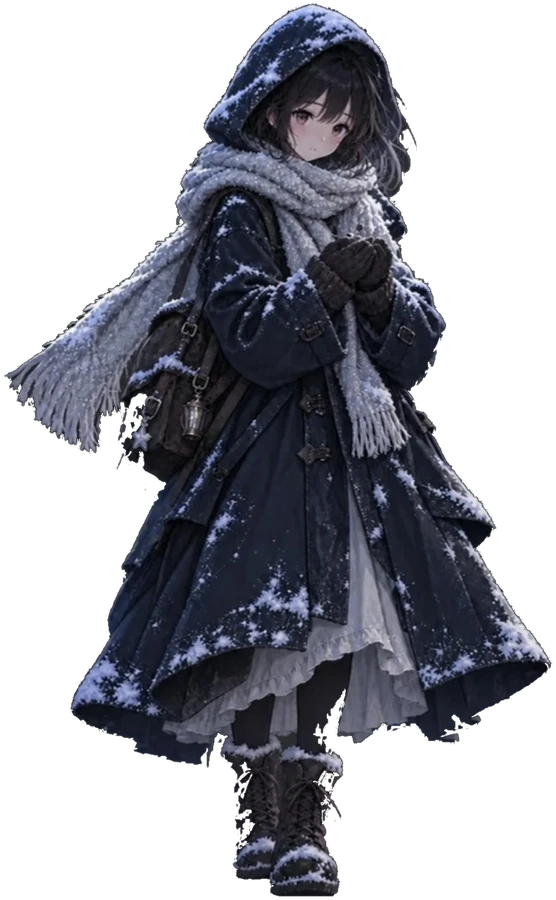
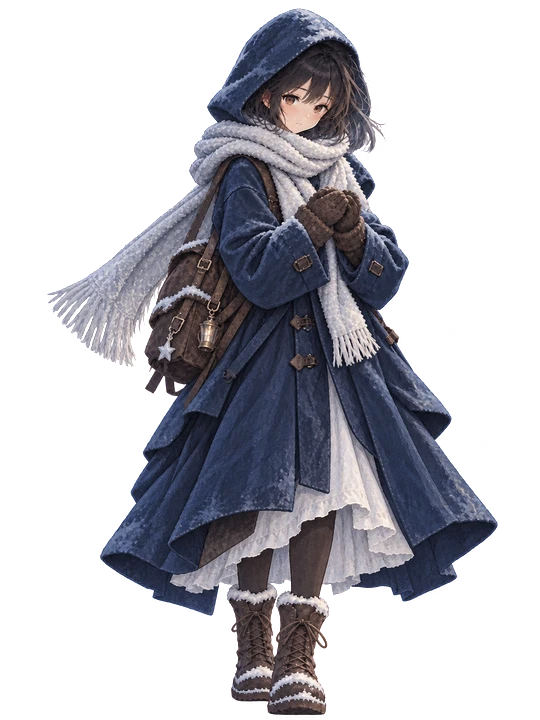
feat(kienaide): finish neutral hero and dawn lighting

diff --git a/assets/kienaide-view.js b/assets/kienaide-view.js
@@ -180,10 +180,10 @@ function create(base){
  }
  // Everything the flame lights on her and on the snow, added after the darkness. Zero when out.
  function drawFirelight(ctx,st){
-  if(!(st.light>0))return;const b=heroBox(),a=flameAnchor();
+  if(!(st.light>0))return;const b=heroBox(),a=st.at||flameAnchor();
   ctx.save();ctx.globalCompositeOperation='lighter';
   const g=ctx.createRadialGradient(a.x,H-10,4,a.x,H-10,90+st.light*80);g.addColorStop(0,'rgba(255,184,104,'+(.3*st.light)+')');g.addColorStop(1,'rgba(255,170,90,0)');ctx.fillStyle=g;ctx.fillRect(0,H-170,view.W,170);
-  const rim=tinted('hero-rim','#ffbf78');if(rim){ctx.globalAlpha=Math.min(1,st.light*1.1);ctx.drawImage(rim,b.x,b.y+(st.bob||0),b.w,b.h)}
+  const rim=tinted('hero-rim','#ffbf78');if(rim){ctx.globalAlpha=Math.min(.62,st.light*.68);ctx.drawImage(rim,b.x,b.y+(st.bob||0),b.w,b.h)}
   ctx.restore();
  }
  // Hands: the same painted mittens, raised and closed around the flame while shielding.
@@ -202,7 +202,7 @@ function create(base){
    if(st.smoke>0){ctx.save();ctx.strokeStyle='rgba(190,198,214,'+(.5*st.smoke)+')';ctx.lineWidth=2;ctx.beginPath();ctx.moveTo(a.x,y0);for(let i=1;i<8;i++)ctx.lineTo(a.x+Math.sin(st.t*2+i)*4*i*.4,y0-i*7);ctx.stroke();ctx.restore()}
    return;
   }
-  const e=st.expression||'calm',light=Math.min(1,health/100)*(st.hope?1.2:1),sprite=ready('flame-'+e)?imgs['flame-'+e]:imgs.flame;
+  const e=st.expression||'calm',exposure=st.exposure??1,light=Math.min(1,health/100)*(st.hope?1.2:1)*exposure,sprite=ready('flame-'+e)?imgs['flame-'+e]:imgs.flame;
   const size=(16+32*Math.pow(health/100,.7))*(st.scale||1),lean=st.reduced?0:Math.max(-1,Math.min(1,(st.wind||0)*(st.shield?.15:.9)))*.32;
   const tremble=st.reduced?0:(e==='afraid'?Math.sin(st.t*31)*1.2:e==='suffocating'?Math.sin(st.t*9)*.8:0);
   const breathe=st.reduced?1:1+Math.sin(st.t*(e==='comfort'?2.2:4.2))*.035;
@@ -215,7 +215,7 @@ function create(base){
   if(sprite&&sprite.complete&&sprite.naturalWidth>0){
    const w=size*1.15*breathe,h=size*1.25*(e==='afraid'?.9:1)*breathe;
    ctx.save();ctx.translate(a.x+tremble,y0);ctx.rotate(lean+(st.lookAt?.08:0));
-   ctx.globalAlpha=e==='suffocating'?.72:1;
+   ctx.globalAlpha=(e==='suffocating'?.72:1)*Math.min(1,.72+.28*exposure);
     ctx.drawImage(sprite,-w/2,-h*.92,w,h);ctx.restore();
   }else{
    const g=ctx.createRadialGradient(a.x,y0-size*.5,1,a.x,y0-size*.5,size*.6);g.addColorStop(0,'#fff3c4');g.addColorStop(1,'rgba(245,140,70,0)');ctx.fillStyle=g;ctx.fillRect(a.x-size,y0-size*1.4,size*2,size*1.6);
@@ -326,8 +326,13 @@ function create(base){
   if(!drawPlate(ctx,ci,cam,1,lightAlpha,['sky','far','mid']))fallbackSky(ctx,ci);
   snow(ctx,te,ending==='blown'?.9:ending==='smother'?.15:.05,reduced,1,'back');
   const flame=ending==='dawn'?92:ending==='survive'?24+Math.sin(te*6)*4:ending==='smother'?Math.max(0,30*(1-te/1.6)):0;
+  const endingExposure=ending==='dawn'?.34:1,flameAt=ending==='dawn'?{x:a.x+8,y:a.y+26}:a;
+  // The responding window belongs behind the traveller. Painting this additive glow after her
+  // washed out the face and made the ending feel like a generated bloom effect.
+  let dawnWindow=null;
+  if(ending==='dawn'){dawnGrade(ctx,.6+.4*k);dawnWindow=windowGlow(ctx,cam,.7+k*.5)}
   const bob=drawTraveller(ctx,{t:te,ci,pose:'end-'+ending,shield:false,wind:ending==='blown'?.9:.1,reduced,light:flame/100,walking:false});
-  if(ending==='dawn'){dawnGrade(ctx,.6+.4*k);const w=windowGlow(ctx,cam,.7+k*.5);beam(ctx,w,a,k);vignette(ctx,1,a)}
+  if(ending==='dawn'){beam(ctx,dawnWindow,flameAt,k);vignette(ctx,1,flameAt)}
   else if(ending==='survive'){dawnGrade(ctx,.45*k);windowGlow(ctx,cam,.25+.12*Math.sin(te*2));vignette(ctx,.45,a)}
   else if(ending==='wish'){windowGlow(ctx,cam,.25);vignette(ctx,.25,a)}
   else{
@@ -336,8 +341,8 @@ function create(base){
    vignette(ctx,0,a);
    ctx.save();ctx.globalCompositeOperation='lighter';ctx.globalAlpha=.7;const kk=CH[ci];if(ready(kk+'-lights')){const t=plateTransform(ci,cam.p,DEPTH.mid*cam.p);ctx.drawImage(imgs[kk+'-lights'],t.x,t.y,PW*t.z,PH*t.z)}ctx.restore();
   }
-  drawFirelight(ctx,{light:flame/100,bob});
-  drawFlame(ctx,{t:te,flame,wind:ending==='blown'?.9:.05,shield:ending==='smother',reduced,expression:ending==='dawn'?'hope':ending==='survive'?'afraid':'calm',hope:ending==='dawn',bob,smoke:ending==='blown'||ending==='smother'?Math.max(0,1-te/4):0,lookAt:ending==='dawn'?1:0});
+  drawFirelight(ctx,{light:flame/100*endingExposure,bob,at:flameAt});
+  drawFlame(ctx,{t:te,flame,wind:ending==='blown'?.9:.05,shield:ending==='smother',reduced,expression:ending==='dawn'?'hope':ending==='survive'?'afraid':'calm',hope:ending==='dawn',exposure:endingExposure,scale:ending==='dawn'?.72:1,bob,smoke:ending==='blown'||ending==='smother'?Math.max(0,1-te/4):0,lookAt:ending==='dawn'?1:0},flameAt);
   if(ending==='smother'&&!ready('end-smother'))drawHands(ctx,{shield:true,light:flame/100,bob});
   if(ending==='wish'){
    // The three memories rise from the empty hands and become stars over the house.

diff --git a/assets/kienaide/paint/src/repaint-v2/README.md b/assets/kienaide/paint/src/repaint-v2/README.md
@@ -1,6 +1,6 @@
 # Character repaint v2
 
-These lossless transparent masters replace the first-pass pose renders at build time without
+These lossless transparent masters replace the neutral body and first-pass pose renders at build time without
 overwriting them. The art bible remains `assets/kienaide-v3/snow-town.webp` and
 `assets/kienaide-v3/traveller-flame.webp`.
 
